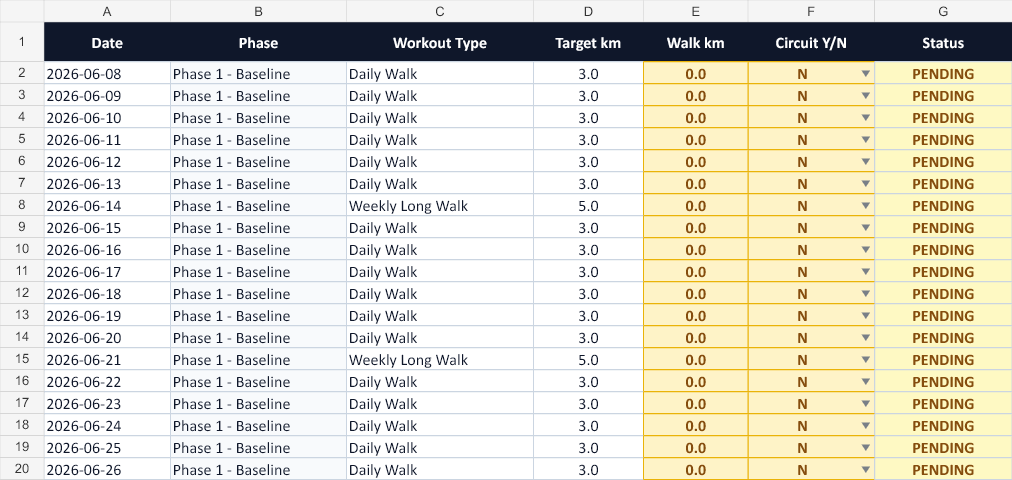
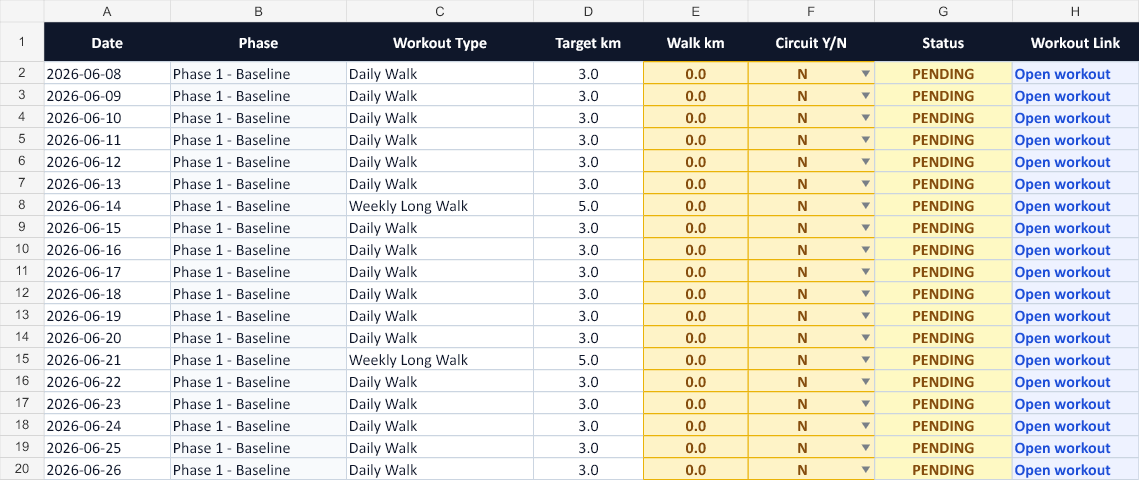
Add dashboard charts and workout links

diff --git a/README.md b/README.md
@@ -4,7 +4,9 @@ A production-ready 90-day Google Sheets tracker for a missionary fitness and wel
 
 What it includes:
 - A dashboard with daily mission guidance, progress tracking, and phase summaries
+- Two visual progress charts on the dashboard
 - A 90-day ledger with highlighted entry cells for walk distance and circuit completion
+- A clickable workout link on each ledger day
 - Automatic status logic for `PENDING`, `PARTIAL SUCCESS`, `SUCCESS`, and `FAILURE`
 - A simple missionary workout checklist paired with the walking plan
 
@@ -14,3 +16,26 @@ Files of interest:
 - `outputs/missionary_ready_90_day_tracker/ledger-preview.png`
 
 This project is licensed under the MIT License.
+
+## Workout Reference
+
+### Phase 1 Baseline
+- Daily walk: 3 km
+- Weekly long walk: 5 km
+- Circuit: 2 rounds
+
+### Phase 2 Stamina
+- Daily walk: 5 km
+- Weekly heavy walk: 10 km
+- Circuit: 2 rounds
+
+### Phase 3 Load Bearing
+- Daily walk with 5 kg pack: 6 km
+- Weekly long walk: 12 km
+- Circuit: 3 rounds
+
+### Phase 4 Mission Match
+- Daily walk: 8 km
+- Weekly long walk: 15 km
+- Peak day: 21 km on Day 90
+- Circuit: 3 rounds
